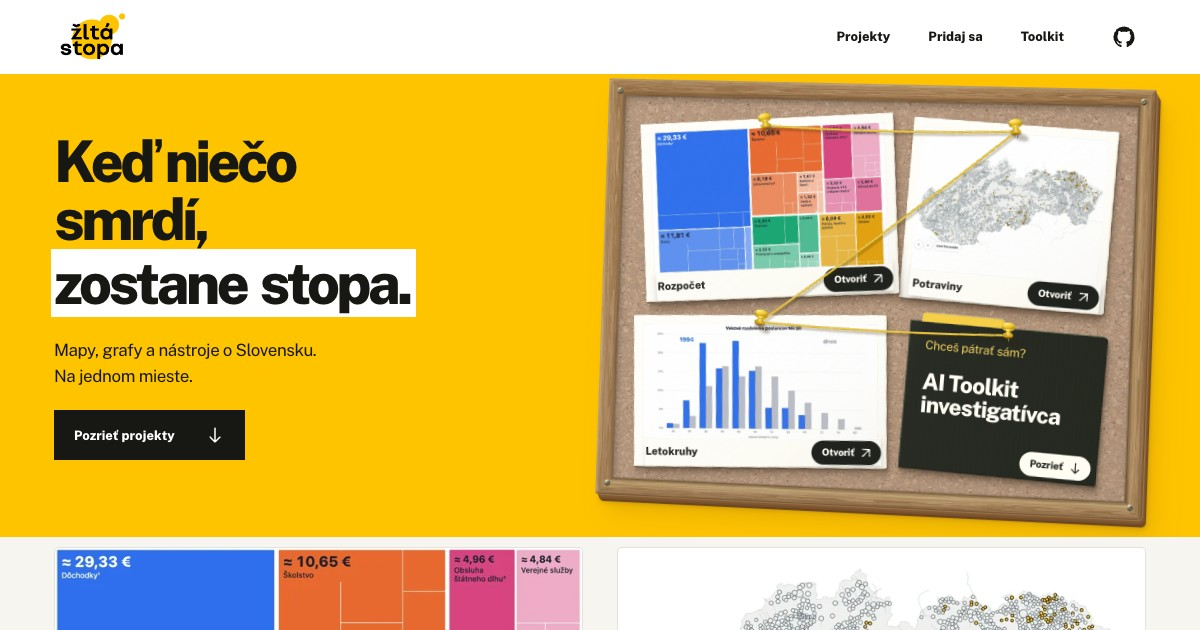
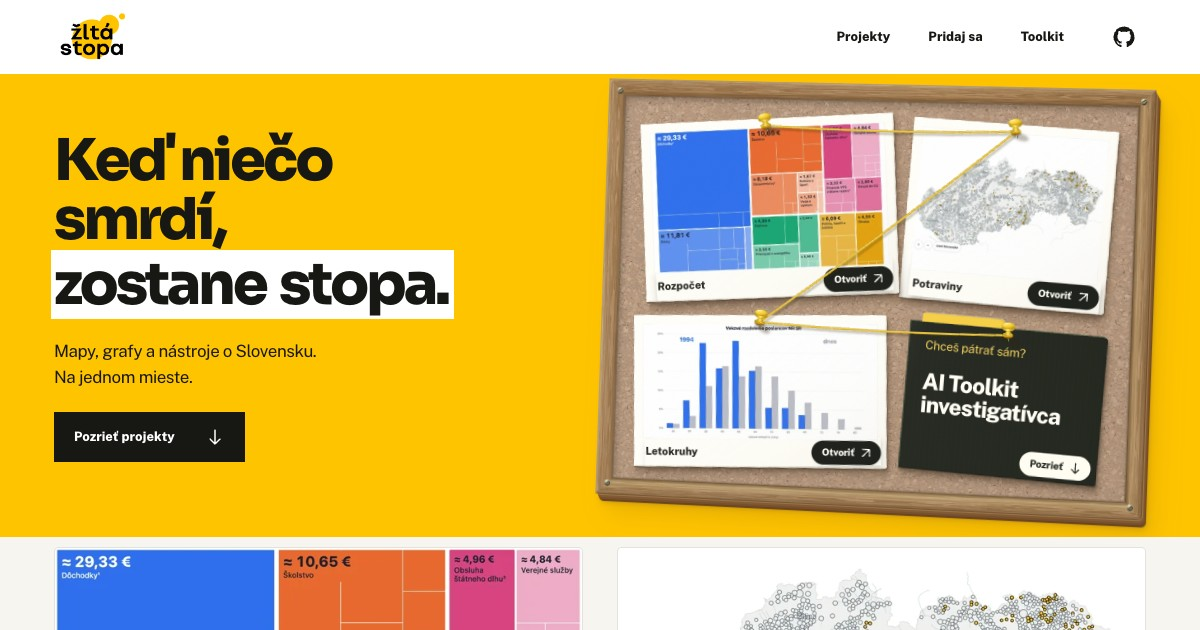
feat: ship Sora ExtraBold for the homepage headline

Changed region(s): [[0.0308, 0.2111, 0.4008, 0.5127], [0.0308, 0.5429, 0.2775, 0.6937], [0.0617, 0.7238, 0.2158, 0.754]]

diff --git a/index.html b/index.html
@@ -12,28 +12,28 @@
   <meta property="og:title" content="Žltá stopa · Slovensko v dátach">
   <meta property="og:description" content="Keď niečo smrdí, zostane stopa. Mapy, grafy a nástroje o Slovensku. Na jednom mieste.">
   <meta property="og:url" content="https://zltastopa.sk/">
-  <meta property="og:image" content="https://zltastopa.sk/assets/home/social.jpg?v=58be4869c3">
+  <meta property="og:image" content="https://zltastopa.sk/assets/home/social.jpg?v=3d7ab45fa8">
   <meta name="twitter:card" content="summary_large_image">
   <link rel="icon" href="favicon.png" type="image/png">
   <link rel="apple-touch-icon" href="apple-touch-icon.png">
-  <link rel="preload" href="assets/home/public-sans-bold.ttf" as="font" type="font/ttf" crossorigin>
-  <link rel="stylesheet" href="assets/home/tokens.css?v=58be4869c3">
-  <link rel="stylesheet" href="assets/home/home.css?v=58be4869c3">
-  <script src="assets/home/home.js?v=58be4869c3" defer></script>
+  <link rel="preload" href="assets/home/sora-extrabold.ttf" as="font" type="font/ttf" crossorigin>
+  <link rel="stylesheet" href="assets/home/tokens.css?v=3d7ab45fa8">
+  <link rel="stylesheet" href="assets/home/home.css?v=3d7ab45fa8">
+  <script src="assets/home/home.js?v=3d7ab45fa8" defer></script>
 </head>
 <body>
   <a class="skip" href="#main">Preskočiť na obsah</a>
   <header class="site-header">
     <div class="shell header-inner">
       <a class="brand" href="#top" aria-label="Žltá stopa, domov"><img src="assets/home/logo.png" alt="Žltá stopa" width="76" height="70"></a>
-      <nav aria-label="Hlavná navigácia"><a href="#projekty">Projekty</a><a href="#o-projekte">Pridaj sa</a><a href="#toolkit">Toolkit</a><a class="nav-github" href="https://github.com/zltastopa" aria-label="Žltá stopa na GitHube" title="GitHub"><svg class="social-icon icon-github" aria-hidden="true"><use href="assets/home/icons.svg?v=58be4869c3#github"></use></svg></a></nav>
+      <nav aria-label="Hlavná navigácia"><a href="#projekty">Projekty</a><a href="#o-projekte">Pridaj sa</a><a href="#toolkit">Toolkit</a><a class="nav-github" href="https://github.com/zltastopa" aria-label="Žltá stopa na GitHube" title="GitHub"><svg class="social-icon icon-github" aria-hidden="true"><use href="assets/home/icons.svg?v=3d7ab45fa8#github"></use></svg></a></nav>
     </div>
   </header>
   <main id="main">
     <section class="hero" id="top" aria-labelledby="hero-title">
       <div class="shell hero-inner">
         <div class="hero-copy">
-          <h1 id="hero-title">Keď<span class="word-space"> </span>niečo<br>smrdí,<br><span class="highlight">zostane stopa.</span></h1>
+          <h1 id="hero-title"><span class="hero-line">Keď<span class="word-space"> </span>niečo</span><span class="hero-line">smrdí,</span><span class="hero-line highlight">zostane stopa.</span></h1>
           <p>Mapy, grafy a nástroje o Slovensku.<br>Na jednom mieste.</p>
           <a class="button button-dark" href="#projekty">Pozrieť projekty <svg viewBox="0 0 20 20" fill="none" aria-hidden="true"><path d="M10 3v14m-5-5 5 5 5-5"/></svg></a>
         </div>
@@ -95,11 +95,11 @@
     </section>
     <section class="about" id="o-projekte" aria-labelledby="about-title">
       <div class="shell about-inner">
-        <div class="about-copy"><h2 id="about-title">Máš projekt?<br>Pridaj ho k nám.</h2><p>Tvoríš niečo z verejných dát o Slovensku? Ukáž nám svoj projekt. Alebo nápad, ktorý ešte len vzniká.</p><a class="text-link" href="https://discord.gg/3rMUDFeFz7"><svg class="social-icon icon-discord" aria-hidden="true"><use href="assets/home/icons.svg?v=58be4869c3#discord"></use></svg> Pridaj sa na Discord</a></div>
-        <div class="toolkit" id="toolkit"><span id="steps" class="anchor-alias" aria-hidden="true"></span><div class="toolkit-symbol" aria-hidden="true"><span>&gt;_</span><i></i></div><h3>Toolkit pre novinárov.</h3><p>Pre investigatívnych novinárov, analytikov aj občianske iniciatívy. Skills pre AI agentov, ktoré pomáhajú prepojiť zmluvy, firmy a verejné registre.</p><a class="text-link" href="https://github.com/zltastopa/zltastopa"><svg class="social-icon icon-github" aria-hidden="true"><use href="assets/home/icons.svg?v=58be4869c3#github"></use></svg> Otvoriť toolkit</a></div>
+        <div class="about-copy"><h2 id="about-title">Máš projekt?<br>Pridaj ho k nám.</h2><p>Tvoríš niečo z verejných dát o Slovensku? Ukáž nám svoj projekt. Alebo nápad, ktorý ešte len vzniká.</p><a class="text-link" href="https://discord.gg/3rMUDFeFz7"><svg class="social-icon icon-discord" aria-hidden="true"><use href="assets/home/icons.svg?v=3d7ab45fa8#discord"></use></svg> Pridaj sa na Discord</a></div>
+        <div class="toolkit" id="toolkit"><span id="steps" class="anchor-alias" aria-hidden="true"></span><div class="toolkit-symbol" aria-hidden="true"><span>&gt;_</span><i></i></div><h3>Toolkit pre novinárov.</h3><p>Pre investigatívnych novinárov, analytikov aj občianske iniciatívy. Skills pre AI agentov, ktoré pomáhajú prepojiť zmluvy, firmy a verejné registre.</p><a class="text-link" href="https://github.com/zltastopa/zltastopa"><svg class="social-icon icon-github" aria-hidden="true"><use href="assets/home/icons.svg?v=3d7ab45fa8#github"></use></svg> Otvoriť toolkit</a></div>
       </div>
     </section>
   </main>
-  <footer class="site-footer"><div class="shell footer-inner"><a class="brand" href="#top" aria-label="Žltá stopa, späť hore"><img src="assets/home/logo.png" alt="Žltá stopa" width="70" height="64" loading="lazy"></a><p>Verejné dáta. Vlastný úsudok.</p><nav aria-label="Kontakt"><a href="https://github.com/zltastopa"><svg class="social-icon icon-github" aria-hidden="true"><use href="assets/home/icons.svg?v=58be4869c3#github"></use></svg> GitHub</a><a href="https://discord.gg/3rMUDFeFz7"><svg class="social-icon icon-discord" aria-hidden="true"><use href="assets/home/icons.svg?v=58be4869c3#discord"></use></svg> Discord</a><a href="mailto:hello@zltastopa.sk"><svg class="social-icon icon-mail" aria-hidden="true"><use href="assets/home/icons.svg?v=58be4869c3#mail"></use></svg> Napíš nám</a></nav></div></footer>
+  <footer class="site-footer"><div class="shell footer-inner"><a class="brand" href="#top" aria-label="Žltá stopa, späť hore"><img src="assets/home/logo.png" alt="Žltá stopa" width="70" height="64" loading="lazy"></a><p>Verejné dáta. Vlastný úsudok.</p><nav aria-label="Kontakt"><a href="https://github.com/zltastopa"><svg class="social-icon icon-github" aria-hidden="true"><use href="assets/home/icons.svg?v=3d7ab45fa8#github"></use></svg> GitHub</a><a href="https://discord.gg/3rMUDFeFz7"><svg class="social-icon icon-discord" aria-hidden="true"><use href="assets/home/icons.svg?v=3d7ab45fa8#discord"></use></svg> Discord</a><a href="mailto:hello@zltastopa.sk"><svg class="social-icon icon-mail" aria-hidden="true"><use href="assets/home/icons.svg?v=3d7ab45fa8#mail"></use></svg> Napíš nám</a></nav></div></footer>
 </body>
 </html>

diff --git a/assets/home/home.css b/assets/home/home.css
@@ -1,4 +1,5 @@
 /* Žltá stopa promotional homepage. Real HTML, native links, replaceable images. */
+@font-face{font-family:Sora;src:url('./sora-extrabold.ttf') format('truetype');font-weight:800;font-display:swap}
 @font-face{font-family:Public Sans;src:url('./public-sans-regular.ttf') format('truetype');font-weight:400;font-display:swap}
 @font-face{font-family:Public Sans;src:url('./public-sans-bold.ttf') format('truetype');font-weight:700 900;font-display:swap}
 :root{--yellow:var(--stopa-color-brand-500,#ffc400);--ink:#171713;--paper:#f6f5ef;--page:1360px;--gutter:clamp(22px,4.5vw,80px)}
@@ -166,3 +167,11 @@
  .board-paper.is-settling{animation:board-settle 1150ms ease-in-out 1}
  .board-paper.is-settling .paper-action{animation:board-settle-action 1150ms ease-in-out 1}
 }
+
+/* Selected headline: Sora ExtraBold, option 04. No runtime fitting required. */
+.hero h1{font-family:Sora,'Public Sans',Arial,sans-serif;font-weight:800;font-synthesis:none;letter-spacing:-.055em;line-height:1.03}
+.hero h1 .hero-line{display:block;white-space:nowrap;width:max-content}
+.hero h1>.hero-line.highlight{display:block;line-height:1.2}
+.hero h1 .word-space{display:inline-block;width:.24em}
+@media(min-width:761px) and (max-width:1150px){.hero h1{font-size:clamp(40px,5.25vw,61px)}}
+@media(max-width:370px){.hero h1{font-size:40px}}

diff --git a/templates/home.html b/templates/home.html
@@ -16,7 +16,7 @@
   <meta name="twitter:card" content="summary_large_image">
   <link rel="icon" href="favicon.png" type="image/png">
   <link rel="apple-touch-icon" href="apple-touch-icon.png">
-  <link rel="preload" href="assets/home/public-sans-bold.ttf" as="font" type="font/ttf" crossorigin>
+  <link rel="preload" href="assets/home/sora-extrabold.ttf" as="font" type="font/ttf" crossorigin>
   <link rel="stylesheet" href="assets/home/tokens.css?v=$version">
   <link rel="stylesheet" href="assets/home/home.css?v=$version">
   <script src="assets/home/home.js?v=$version" defer></script>
@@ -33,7 +33,7 @@
     <section class="hero" id="top" aria-labelledby="hero-title">
       <div class="shell hero-inner">
         <div class="hero-copy">
-          <h1 id="hero-title">Keď<span class="word-space"> </span>niečo<br>smrdí,<br><span class="highlight">zostane stopa.</span></h1>
+          <h1 id="hero-title"><span class="hero-line">Keď<span class="word-space"> </span>niečo</span><span class="hero-line">smrdí,</span><span class="hero-line highlight">zostane stopa.</span></h1>
           <p>Mapy, grafy a nástroje o Slovensku.<br>Na jednom mieste.</p>
           <a class="button button-dark" href="#projekty">Pozrieť projekty $down</a>
         </div>

diff --git a/README.md b/README.md
@@ -103,3 +103,5 @@ Checks: one animation start and clean completion; no replay on normal reload; ho
 ## Headline type comparison
 
 Ten bold headline alternatives are available at [`navrhy/pismo/`](https://zltastopa.sk/navrhy/pismo/), each with a numbered sharing URL. The comparison uses the current homepage and local, licensed fonts. It does not change the production headline. Rebuild with `python3 navrhy/pismo/build.py` after updating the homepage; see that folder's README for font sources and maintenance.
+
+Peter selected option 04, Sora ExtraBold, for the hero headline on 24 October 2026. It is locally hosted as `assets/home/sora-extrabold.ttf` with its OFL license. The three-line headline fits through CSS alone, including narrow phones. Public Sans remains the interface and body font.
